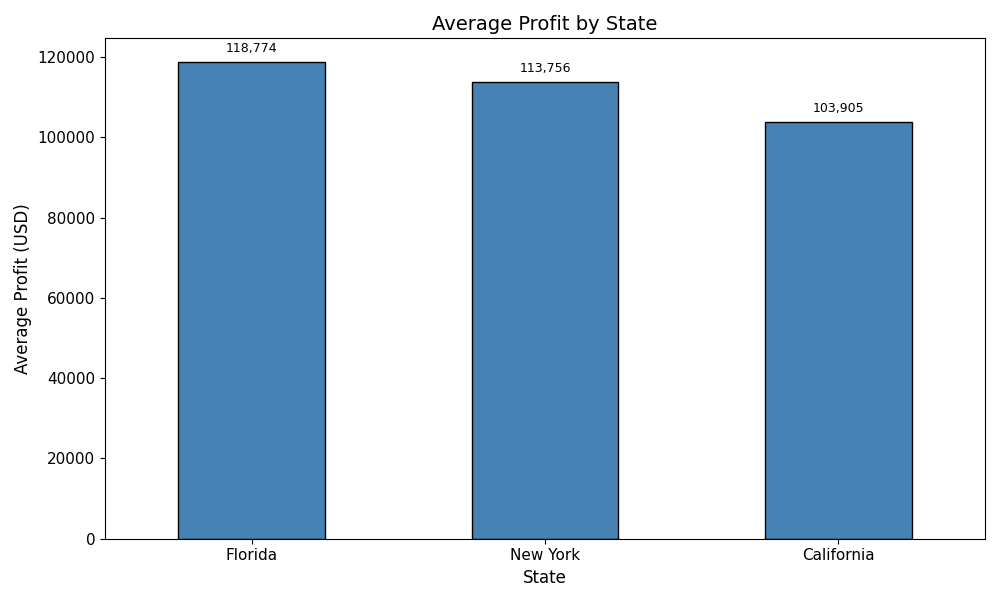
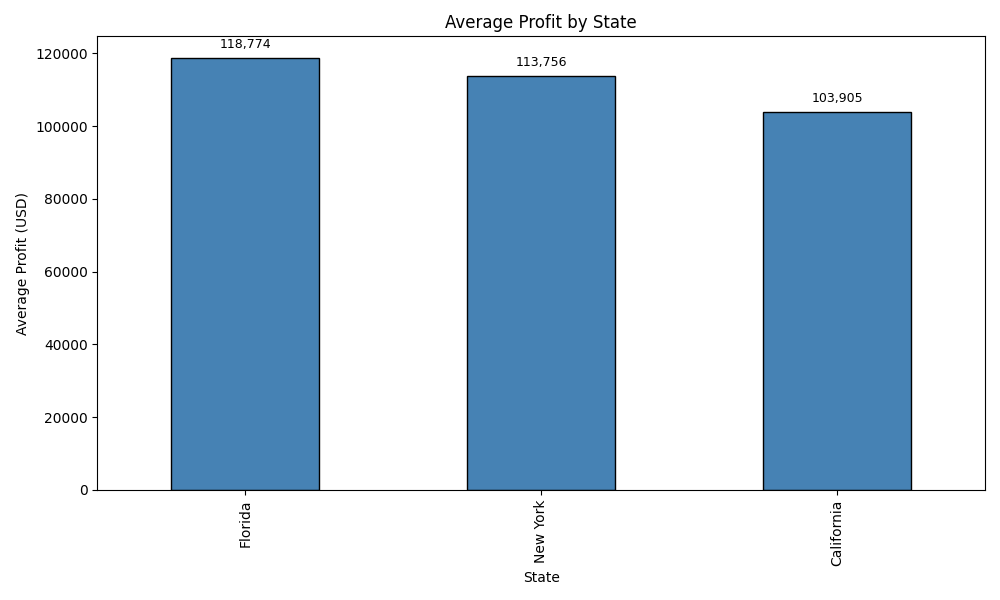
Added llm for generating insights and prompt engineering

diff --git a/src/insights.py b/src/insights.py
@@ -1,6 +1,21 @@
 import pandas as pd
 import seaborn as sns
 import matplotlib.pyplot as plt
+import os
+from gpt4all import GPT4All
+
+model_path = "/Users/lakkshtyagi/Downloads/MintyCraft/models/mistral-7b-v0.1.Q4_K_M.gguf"
+model = GPT4All(model_path, allow_download=False)
+
+def generate_gpt_summary(df_stats: str) -> str:
+    prompt = f"""
+You are an analytics assistant. Given this pandas DataFrame summary and insights, write a paragraph summarizing the findings for a business audience. Be concise, use professional language, and focus on profit, ROI, and state-wise performance.
+
+Here is the data:
+{df_stats}
+"""
+    output = model.generate(prompt, max_tokens=300, temp=0.7)
+    return output.strip()
 
 def generate_insights(df):
     df["total_spend"] = df["r&d_spend"] + df["administration"] + df["marketing_spend"]
@@ -14,41 +29,61 @@ def generate_insights(df):
         low_roi.assign(group="Low ROI")
     ])
 
-    # Improved Spending Comparison Barplot
+    # Barplot: Top vs Low ROI
     plt.figure(figsize=(12, 7))
     bar = sns.barplot(
         data=combined, x="group", y="total_spend", hue="state", palette="Set2"
     )
-    plt.title("Total Spend Comparison: Top vs Low ROI Companies", fontsize=14)
-    plt.xlabel("ROI Group", fontsize=12)
-    plt.ylabel("Total Spend (USD)", fontsize=12)
-    plt.xticks(fontsize=11)
-    plt.yticks(fontsize=11)
-    plt.legend(title="State", title_fontsize=11, fontsize=10, loc="upper right")
+    plt.title("Total Spend Comparison: Top vs Low ROI Companies")
+    plt.xlabel("ROI Group")
+    plt.ylabel("Total Spend (USD)")
     for p in bar.patches:
         height = p.get_height()
         bar.annotate(
             f'{height:,.0f}',
             (p.get_x() + p.get_width() / 2., height),
             ha='center', va='bottom',
-            fontsize=9, color='black', rotation=0, xytext=(0, 5),
-            textcoords='offset points'
+            fontsize=9, color='black', xytext=(0, 5), textcoords='offset points'
         )
     plt.tight_layout()
+    os.makedirs("../outputs", exist_ok=True)
     plt.savefig("../outputs/spending_comparison.png")
     plt.close()
 
-    # Improved Average Profit by State
-    plt.figure(figsize=(10, 6))
-    state_avg = df.groupby("state")["profit"].mean().sort_values(ascending=False)
-    bars = state_avg.plot(kind="bar", color="steelblue", edgecolor="black")
-    plt.title("Average Profit by State", fontsize=14)
-    plt.xlabel("State", fontsize=12)
-    plt.ylabel("Average Profit (USD)", fontsize=12)
-    plt.xticks(rotation=0, fontsize=11)
-    plt.yticks(fontsize=11)
+    # fig = px.bar(
+    #     combined,
+    #     x="group",
+    #     y="total_spend",
+    #     color="state",
+    #     barmode="group",
+    #     text_auto=".2s",  # Auto-format labels
+    #     color_discrete_sequence=px.colors.qualitative.Set2,
+    #     title="Total Spend Comparison: Top vs Low ROI Companies"
+    # )
 
-    for i, val in enumerate(state_avg):
+    # fig.update_layout(
+    #     xaxis_title="ROI Group",
+    #     yaxis_title="Total Spend (USD)",
+    #     title_font=dict(size=18),
+    #     legend_title="State",
+    #     legend_font=dict(size=12),
+    #     xaxis=dict(tickfont=dict(size=11)),
+    #     yaxis=dict(tickfont=dict(size=11)),
+    #     bargap=0.2,
+    #     margin=dict(l=40, r=40, t=80, b=40)
+    # )
+
+    # # Save the interactive plot as an HTML file
+    # fig.write_html("../outputs/spending_comparison.html")
+
+    # Barplot: Avg Profit by State
+    plt.figure(figsize=(10, 6))
+    state_avg_profit = df.groupby("state")["profit"].mean().sort_values(ascending=False)
+    bars = state_avg_profit.plot(kind="bar", color="steelblue", edgecolor="black")
+    plt.title("Average Profit by State")
+    plt.xlabel("State")
+    plt.ylabel("Average Profit (USD)")
+    for i, val in enumerate(state_avg_profit):
         bars.annotate(
             f'{val:,.0f}', 
             xy=(i, val), 
@@ -59,3 +94,23 @@ def generate_insights(df):
     plt.tight_layout()
     plt.savefig("../outputs/profit_by_state.png")
     plt.close()
+
+    # Preparing summary text
+    summary_str = f"""
+Top 5 ROI Companies:
+{top_roi[['state', 'total_spend', 'roi', 'profit']].to_string(index=False)}
+
+Bottom 5 ROI Companies:
+{low_roi[['state', 'total_spend', 'roi', 'profit']].to_string(index=False)}
+
+Average Profit by State:
+{state_avg_profit.to_string()}
+"""
+
+    # Saving it
+    summary = generate_gpt_summary(summary_str)
+    with open("../outputs/data_insights_summary_gpt.txt", "w", encoding="utf-8") as f:
+        f.write("GPT4All-Generated Summary: \n\n")
+        f.write(summary)
+
+    print("GPT summary has been generated!")
